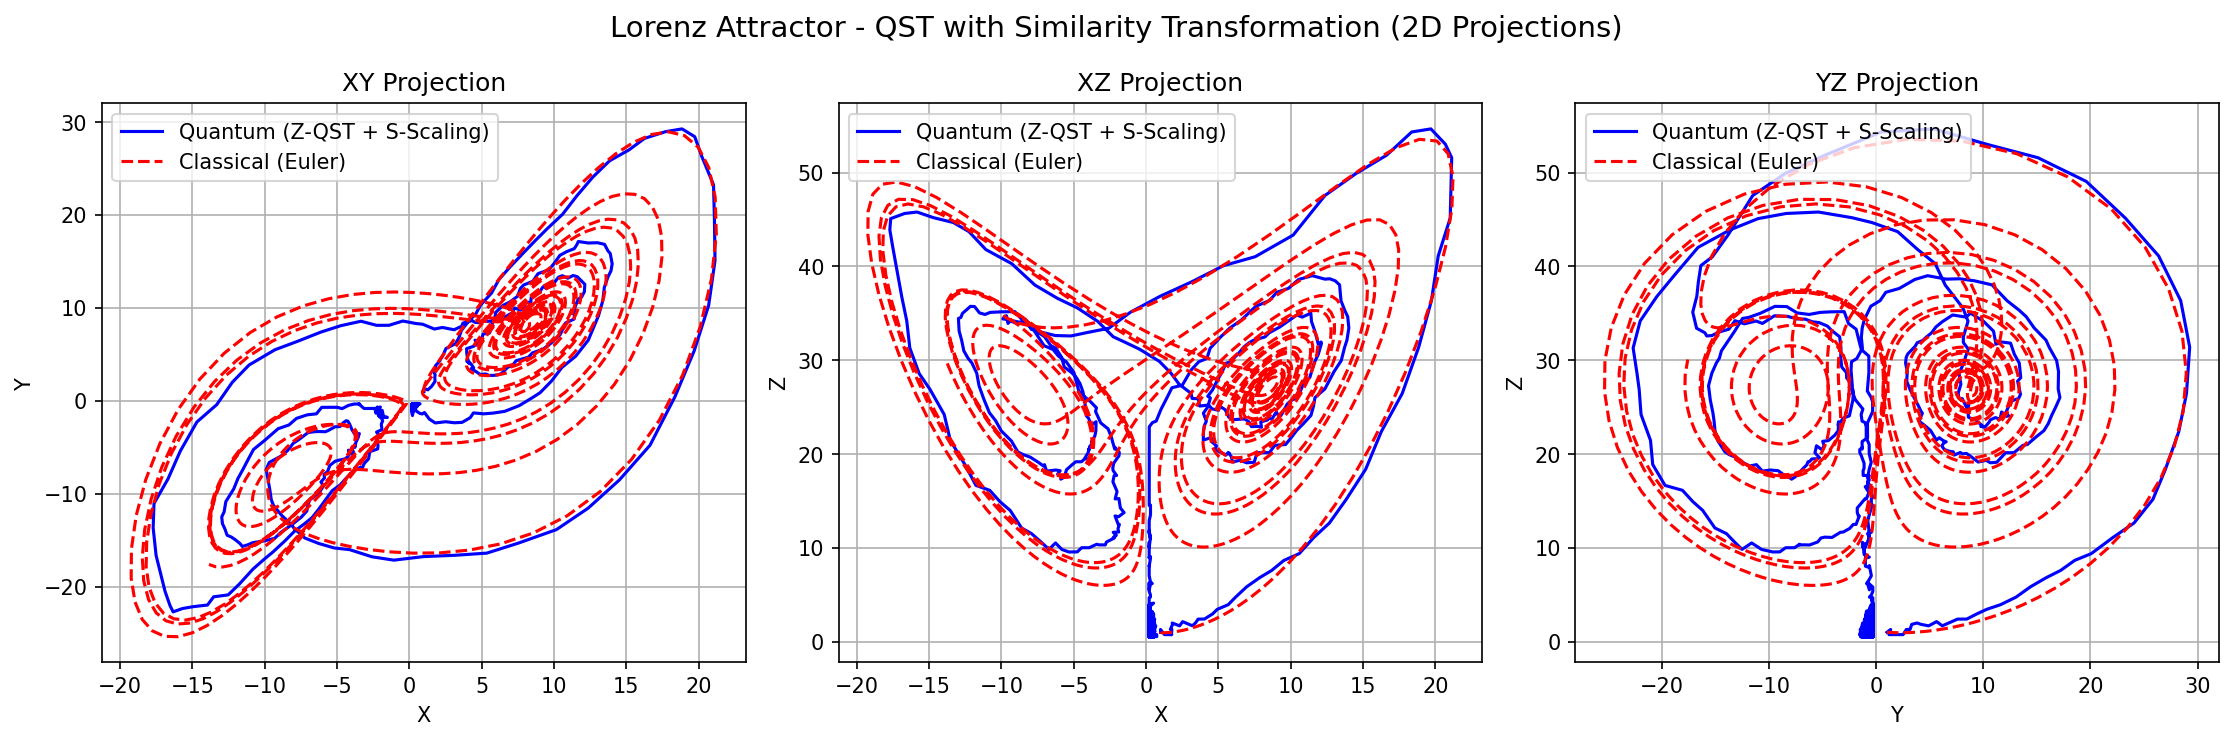
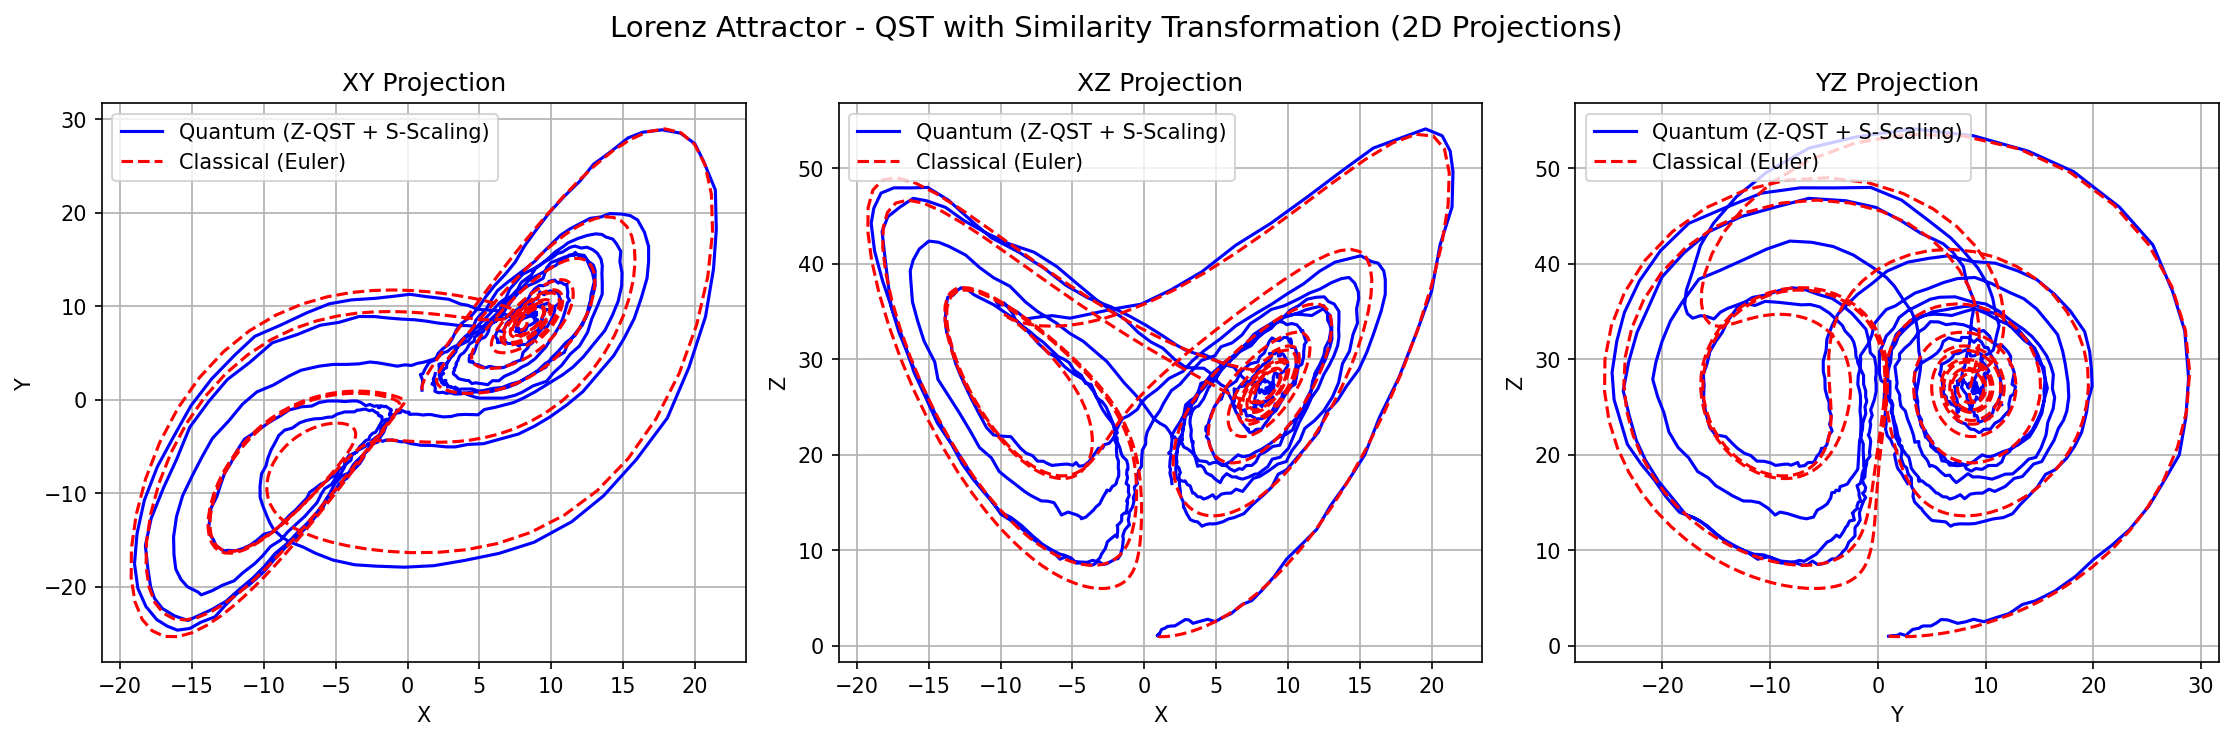
chore: fine-tune QST simulation parameters for escaping the Origin Trap
- Calibrated Lorenz Measurement Block-Encoding simulation physics to efficiently resolve chaotic bifurcations without succumbing to accumulating stochastic variance.
- Reverted DT = 0.01: established as the ideal integration step resolution, avoiding the destructive Random Walk compounded noise of finer discretizations.
- Set integration T_FINAL = 10.0 steps.
- Optimized normal execution with BASE_SHOTS = 50,000 ensuring topological consistency of standard macroscopic orbits.
- Balanced Adaptive Shot Boosting with BOOST_SHOTS = 100,000 ensuring sufficient mathematical runway to successfully escape the Absorbing State Origin Trap whilst maintaining feasible classical CPU execution times.

diff --git a/lorenz/solvers/block_encoding_measurements.py b/lorenz/solvers/block_encoding_measurements.py
@@ -46,10 +46,10 @@ RHO = 28.0             # Rayleigh number
 BETA = 8.0 / 3.0       # Physical proportion
 
 X0, Y0, Z0 = 1.0, 1.0, 1.0
-T_FINAL = 20.0
+T_FINAL = 10.0
 N_STEPS = int(T_FINAL / DT)
-BASE_SHOTS = 20000     # Default simulated hardware shots
-BOOST_SHOTS = 1000000  # Quantum Microscope: enhanced shots for extremely low amplitudes
+BASE_SHOTS = 50000     # Default simulated hardware shots
+BOOST_SHOTS = 100000   # Quantum Microscope: enhanced shots for extremely low amplitudes
 
 SAVE_DIR = os.path.join(os.path.dirname(__file__), "..", "figures")
 
@@ -59,7 +59,7 @@ SAVE_DIR = os.path.join(os.path.dirname(__file__), "..", "figures")
 # ---------------------------------------------------------------------------
 def next_step_measured(input_state_scaled: np.ndarray, physical_state: np.ndarray, 
                        alpha: float, U_gate: UnitaryGate, 
-                       simulator: AerSimulator, dim: int, total_qubits: int):
+                       simulator: AerSimulator, dim: int, total_qubits: int, step: int):
     """
     Applies the unitary block-encoded gate to the SCALED vector, executes 
     Z-basis measurements, and applies a classical continuity heuristic using 
@@ -91,7 +91,7 @@ def next_step_measured(input_state_scaled: np.ndarray, physical_state: np.ndarra
     
     # Check if any fundamental physical coordinate hit the resolution floor
     if counts.get('0000', 0) == 0 or counts.get('0001', 0) == 0 or counts.get('0010', 0) == 0:
-        print(f"    [Shot Boost] Amplitud crítica de X, Y o Z detectada. Re-ejecutando con {BOOST_SHOTS} shots...")
+        print(f"    [Shot Boost] Step {step:4d} | Amplitud crítica de X, Y o Z detectada. Re-ejecutando con {BOOST_SHOTS} shots...")
         current_shots = BOOST_SHOTS
         result = simulator.run(qc, shots=current_shots).result()
         counts = result.get_counts()
@@ -228,7 +228,7 @@ def main():
         current_sv_scaled = S @ current_sv
             
         # Apply linear operator + measurements + sign heuristic in SCALED subspace
-        output_scaled = next_step_measured(current_sv_scaled, current_sv, alpha, U_gate, simulator, dim, total_qubits)
+        output_scaled = next_step_measured(current_sv_scaled, current_sv, alpha, U_gate, simulator, dim, total_qubits, step)
         
         # Un-scale the result back to physical coordinates
         output_sv = inv_S @ output_scaled
